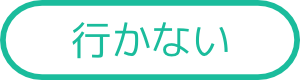
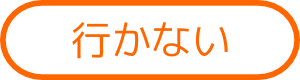
add images

Changed region(s): [[0.0, 0.0, 1.0, 1.0], [0.24, 0.275, 0.78, 0.75]]

diff --git a/45Navi/GoalViewController.m b/45Navi/GoalViewController.m
@@ -10,6 +10,7 @@
 
 @interface GoalViewController ()
 @property (weak, nonatomic) IBOutlet UIView *reviewDialog;
+@property (weak, nonatomic) IBOutlet UIImageView *dialogBlurImageView;
 
 @end
 
@@ -18,6 +19,11 @@
 - (void)viewDidLoad {
     [super viewDidLoad];
     // Do any additional setup after loading the view.
+
+  UIBlurEffect * blurEffect = [UIBlurEffect effectWithStyle:UIBlurEffectStyleLight];
+  UIVisualEffectView * visualEffectView = [[UIVisualEffectView alloc] initWithEffect:blurEffect];
+  visualEffectView.frame = _dialogBlurImageView.bounds;
+  [_dialogBlurImageView addSubview:visualEffectView];
 }
 
 - (void)didReceiveMemoryWarning {
@@ -34,6 +40,11 @@
     // Pass the selected object to the new view controller.
 }
 */
+
+- (IBAction)reviewOpen:(id)sender {
+  _reviewDialog.hidden = NO;
+}
+
 - (IBAction)review1Star:(id)sender {
   _reviewDialog.hidden = YES;
 }

diff --git a/45Navi/OverlayView.m b/45Navi/OverlayView.m
@@ -17,7 +17,7 @@
     self = [super initWithFrame:frame];
     if (self) {
         self.backgroundColor = [UIColor clearColor];
-        imageView = [[UIImageView alloc]initWithImage:[UIImage imageNamed:@"noButton"]];
+        imageView = [[UIImageView alloc]initWithImage:[UIImage imageNamed:@"btn2.png"]];
         [self addSubview:imageView];
     }
     return self;
@@ -34,7 +34,7 @@
     if(mode == GGOverlayViewModeLeft) {
         imageView.image = [UIImage imageNamed:@"btn2.png"];
     } else {
-        imageView.image = [UIImage imageNamed:@"btn1.png"];
+        imageView.image = [UIImage imageNamed:@"btn2.png"];
     }
 }
 

diff --git a/45Navi/DraggableView.m b/45Navi/DraggableView.m
@@ -160,7 +160,7 @@
                          [self removeFromSuperview];
                      }];
     
-    [delegate cardSwipedRight:self];
+    [delegate cardSwipedLeft:self];
     
     NSLog(@"YES");
 }
